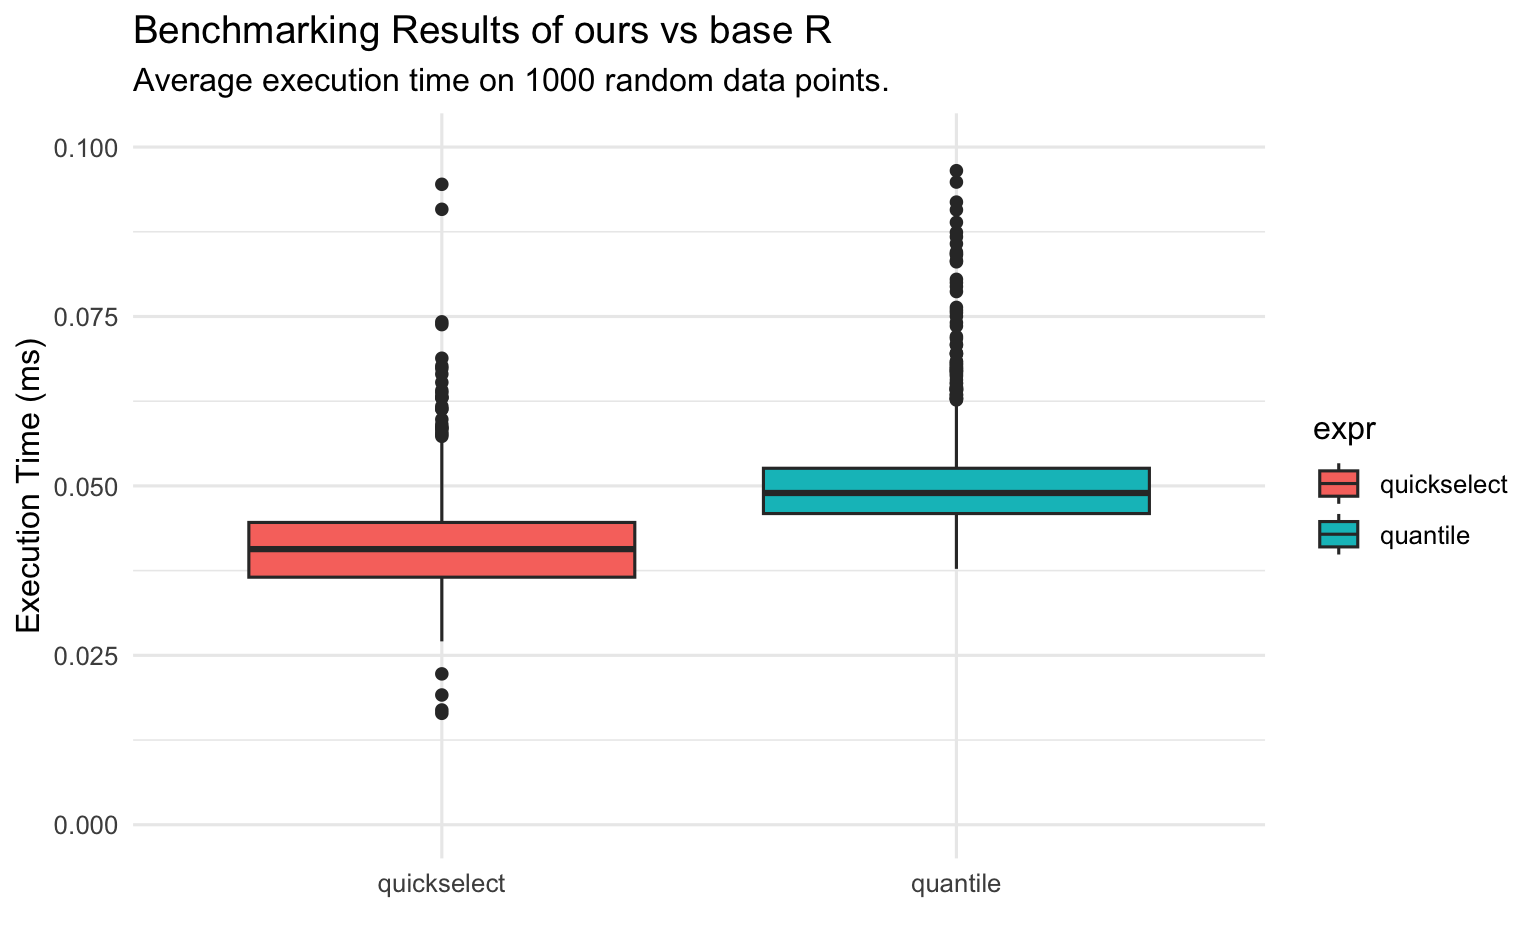
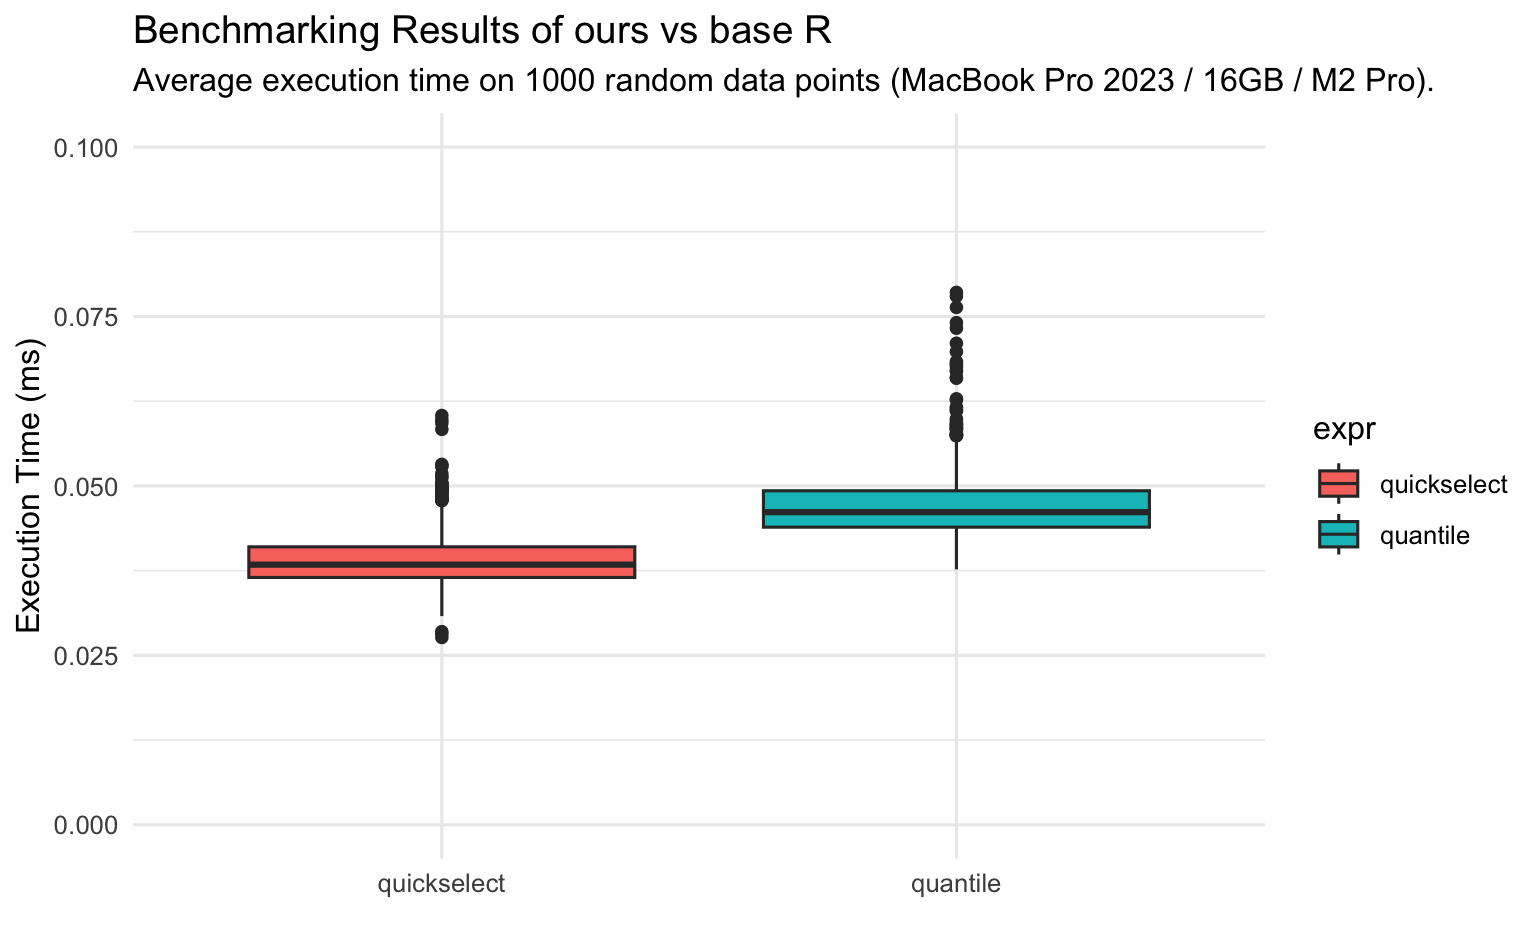
final cleanup

diff --git a/src/quickselect.cpp b/src/quickselect.cpp
@@ -1,22 +1,12 @@
 #include <Rcpp.h>
 using namespace Rcpp;
 
+#include <iostream>
 #include <vector>
 #include <algorithm>
-
+#include <random>
+#include <chrono>
 using namespace std;
-// This is a simple function using Rcpp that creates an R list
-// containing a character vector and a numeric vector.
-//
-// Learn more about how to use Rcpp at:
-//
-//   http://www.rcpp.org/
-//   http://adv-r.had.co.nz/Rcpp.html
-//
-// and browse examples of code using Rcpp at:
-//
-//   http://gallery.rcpp.org/
-//
 
 
 void insertSort(vector<double>& vec){
@@ -31,17 +21,35 @@ void insertSort(vector<double>& vec){
   }
 }
 
+template <typename Iterator>
+void insertionSort(Iterator begin, Iterator end) {
+  for (auto it = begin; it != end; ++it) {
+    auto key = *it;
+    auto prevIt = it;
+
+    while (prevIt != begin && *(prevIt - 1) > key) {
+      *prevIt = *(prevIt - 1);
+      --prevIt;
+    }
+
+    *prevIt = key;
+  }
+}
+
+
+
 double medianOfMedians(vector<double> vec, int low, int high) {
   std::vector<double> medians;
   for(int i = low; i <= high; i += 5) {
-    std::vector<double> part(vec.begin()+ i, vec.begin() + std::min(i + 5, high+1));
+    int end = std::min(i + 5, high+1);
+    int length = end - i;
 
-    insertSort(part);
-    double med = part[(int) (part.size() / 2)];
-    medians.push_back(med);
+    insertionSort(vec.begin() + i, vec.begin() + end);
+
+    medians.push_back(*(vec.begin() + i + (int) (length/2.0)));
   }
 
-  if(medians.size() == 1) {
+  if(medians.size() <= 2) {
     return medians[0];
   }
   return medianOfMedians(medians, 0, medians.size()-1);
@@ -80,7 +88,6 @@ double quickselect_impl(std::vector<double>& vec, int low, int high, int k) {
   return -1;
 }
 
-
 //' Finds the k-th element in the sorted list efficiently
 //'
 //' This function finds the k-th element in the sorted list using the Quickselect algorithm.
@@ -99,6 +106,4 @@ double quickselect_impl(std::vector<double>& vec, int low, int high, int k) {
 double quickselect(std::vector<double> vec, int k) {
   return quickselect_impl(vec, 0, vec.size() - 1, k);
 }
-
-
 

diff --git a/src/RcppExports.cpp b/src/RcppExports.cpp
@@ -22,22 +22,9 @@ BEGIN_RCPP
     return rcpp_result_gen;
 END_RCPP
 }
-// quickselect2
-double quickselect2(std::vector<double> vec, int k);
-RcppExport SEXP _quantquickr_quickselect2(SEXP vecSEXP, SEXP kSEXP) {
-BEGIN_RCPP
-    Rcpp::RObject rcpp_result_gen;
-    Rcpp::RNGScope rcpp_rngScope_gen;
-    Rcpp::traits::input_parameter< std::vector<double> >::type vec(vecSEXP);
-    Rcpp::traits::input_parameter< int >::type k(kSEXP);
-    rcpp_result_gen = Rcpp::wrap(quickselect2(vec, k));
-    return rcpp_result_gen;
-END_RCPP
-}
 
 static const R_CallMethodDef CallEntries[] = {
     {"_quantquickr_quickselect", (DL_FUNC) &_quantquickr_quickselect, 2},
-    {"_quantquickr_quickselect2", (DL_FUNC) &_quantquickr_quickselect2, 2},
     {NULL, NULL, 0}
 };
 
